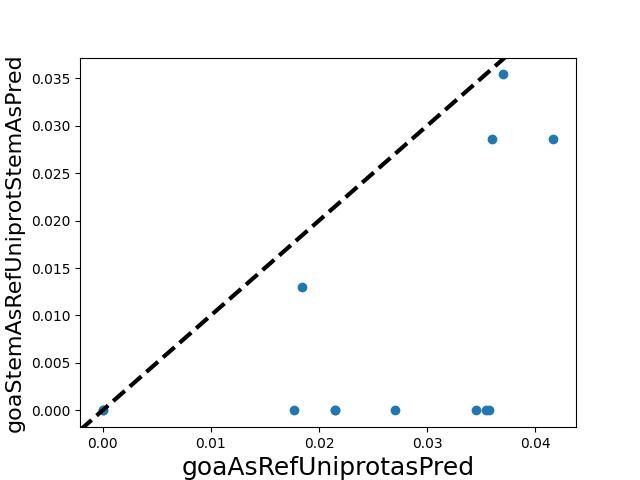
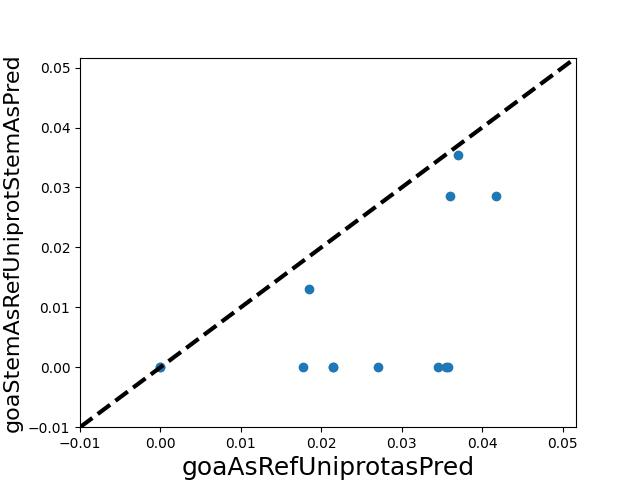
added some codes for plot

diff --git a/CalculateBLEUScore.py b/CalculateBLEUScore.py
@@ -60,6 +60,8 @@ def plotGraph(ref,pred,xlabel,ylabel):
     xpoints = np.array(ref)
     ypoints = np.array(pred)
     fig = plt.figure()
+    plt.ylim(min(ref+pred)-0.01,max(ref+pred)+0.01)
+    plt.xlim(min(ref+pred)-0.01,max(ref+pred)+0.01)
     plt.plot(xpoints, ypoints, 'o')
     plt.xlabel(xlabel, fontsize=18)
     plt.ylabel(ylabel, fontsize=16)
